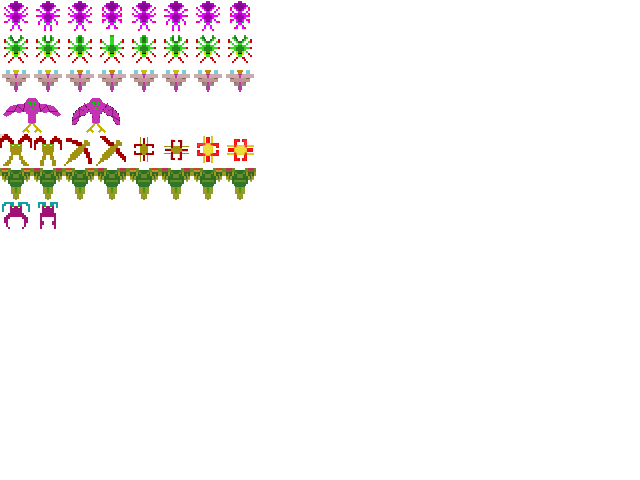
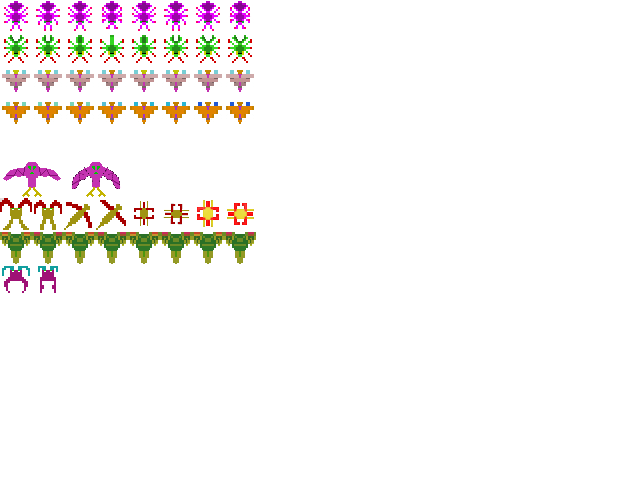
Add files via upload

Changed region(s): [[0.0, 0.1875, 0.4062, 0.625]]

diff --git a/src/level.js b/src/level.js
@@ -52,12 +52,20 @@ export default class Level {
       );*/
     } else if (level === 0) {
       this.enemies.push(
+        new Enemy(240, 100, 270, 2, "./enemies.png"),
         new Enemy(300, 100, 270, 2, "./enemies.png"),
-        new Enemy(340, 100, 270, 2, "./enemies.png"),
-        new Enemy(380, 100, 270, 2, "./enemies.png"),
+        new Enemy(360, 100, 270, 2, "./enemies.png"),
         new Enemy(420, 100, 270, 2, "./enemies.png"),
-        new Enemy(460, 100, 270, 2, "./enemies.png"),
-        new Enemy(500, 100, 270, 2, "./enemies.png"),
+        new Enemy(480, 100, 270, 2, "./enemies.png"),
+        new Enemy(540, 100, 270, 2, "./enemies.png"),
+        new Enemy(180, 200, 270, 3, "./enemies.png"),
+        new Enemy(240, 200, 270, 3, "./enemies.png"),
+        new Enemy(300, 200, 270, 3, "./enemies.png"),
+        new Enemy(360, 200, 270, 3, "./enemies.png"),
+        new Enemy(420, 200, 270, 3, "./enemies.png"),
+        new Enemy(480, 200, 270, 3, "./enemies.png"),
+        new Enemy(540, 200, 270, 3, "./enemies.png"),
+        new Enemy(600, 200, 270, 3, "./enemies.png"),
         new Enemy(width - 130, 300, 180, 0, "./enemies.png"),
         new Enemy(width - 160, 300, 180, 0, "./enemies.png"),
         new Enemy(width - 190, 300, 180, 0, "./enemies.png"),

diff --git a/src/game.js b/src/game.js
@@ -351,8 +351,8 @@ export default class Game {
               enemy.moveTo(
                 400 * Math.sin(Date.now() * 0.0015) + enemy.start.x,
                 enemy.start.y,
-                delta * 12,
-                delta * 2.5
+                delta * 10,
+                delta * 1.8
               );
               if (
                 Math.abs(
@@ -376,6 +376,8 @@ export default class Game {
             }
           }
         }
+      } else if (enemy.enemyType === 3) {
+        enemy.position.x = 400 * Math.sin(Date.now() * 0.002) + enemy.start.x;
       }
       enemy.update(delta);
     });

diff --git a/src/enemy.js b/src/enemy.js
@@ -37,6 +37,8 @@ export default class Enemy {
       this.sourceY = 32;
     } else if (this.enemyType === 2) {
       this.sourceY = 64;
+    } else if (this.enemyType === 3) {
+      this.sourceY = 96;
     }
 
     this.numberOfFrames = 8;
